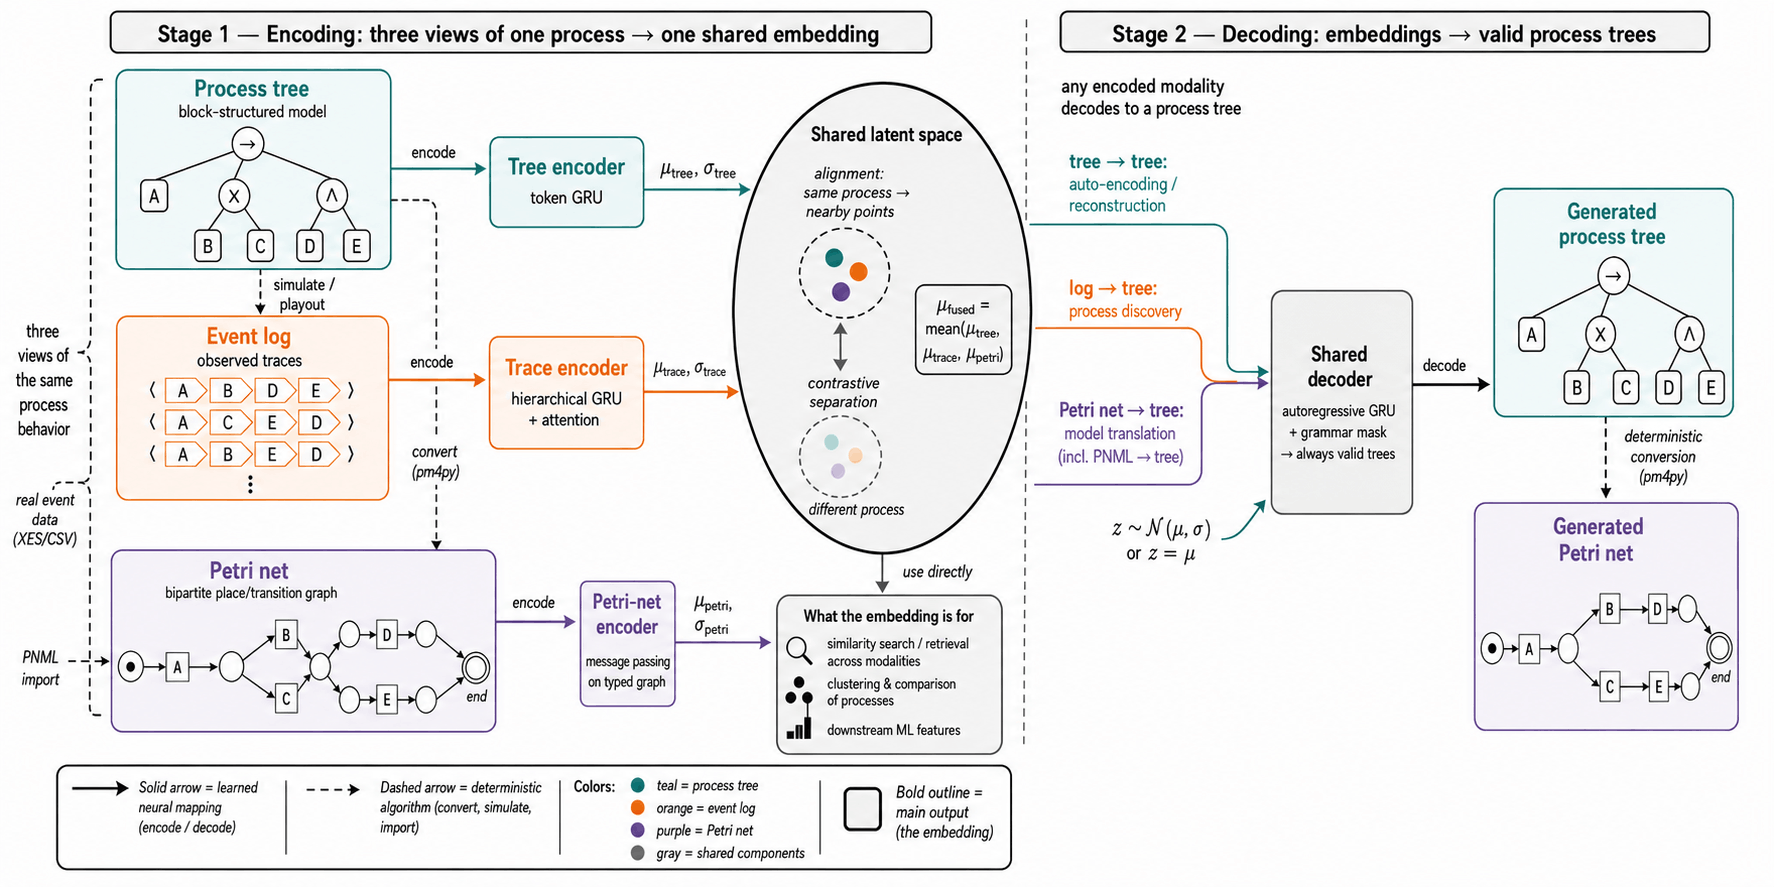
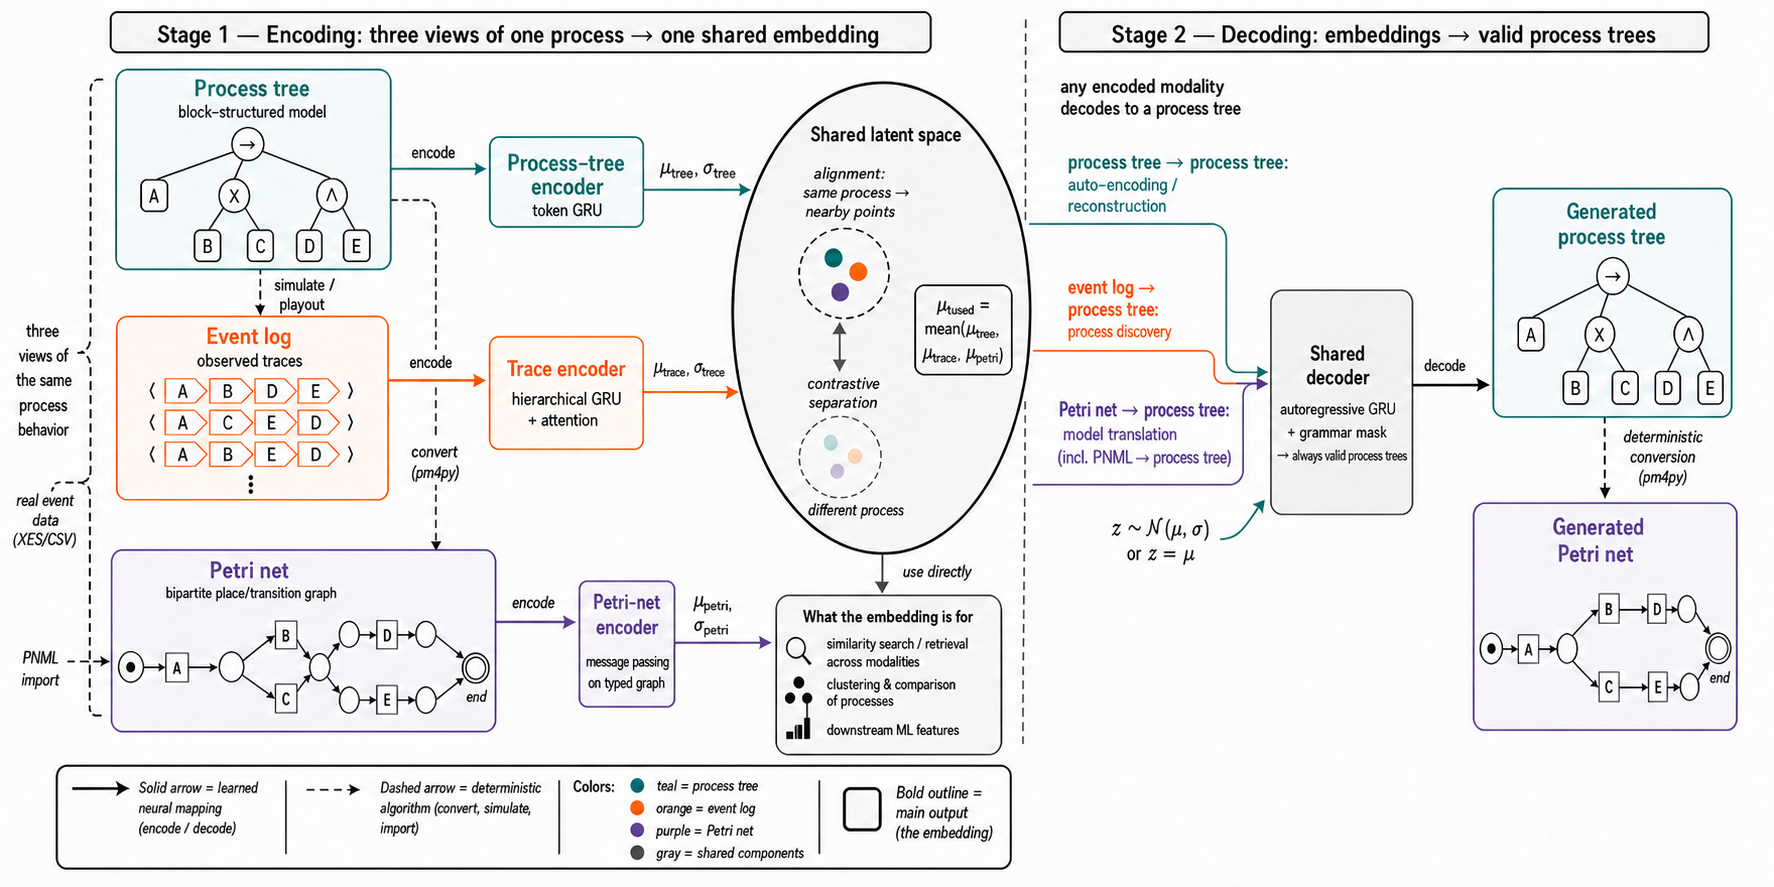
update

diff --git a/paper/main.tex b/paper/main.tex
@@ -613,9 +613,9 @@ The target process trees cover sequence, choice, concurrency, and two-child loop
 \section{Conclusion}
 \label{sec:conclusion}
 
-This paper introduced ProcRosetta, a multimodal neural framework that embeds the three central artifact types of process mining (event logs, process trees, and Petri nets) into a single latent space of process behavior and decodes points of that space into grammar-valid process trees that convert deterministically into sound Petri nets. The assessment answers the three research questions with qualifications: the modality-specific geometries are consistent with their arithmetic-mean fused geometry, and all six exact-row cross-modal retrieval directions perform above chance, although substantial headroom remains (RQ1); at least 99.8\% of decodes terminate for every latent source, every terminated output is grammar-valid and convertible to a Petri net, 75.0\% exactly match the target, and decoded behavior remains substantially closer to the source than unrelated rows (RQ2); under the paired-row test construction, ProcRosetta places behaviorally equivalent companion views in close local neighborhoods, while deterministic event-log features remain stronger in global behavioral rank correlation and learned event-log-to-process-tree translation reaches about 90\% of the Inductive Miner's footprint F1 (RQ3).
+ProcRosetta embeds event logs, process trees, and Petri nets in a shared behavioral latent space and decodes grammar-valid process trees that convert to sound Petri nets. All exact-row retrieval directions exceed chance but leave headroom (RQ1). At least 99.8\% of decodes terminate; every terminated output is valid and convertible, 75.0\% exactly match the target, and decoded behavior remains closer to the source than unrelated rows (RQ2). Under the paired-row construction, equivalent views form local neighborhoods, while deterministic event-log features lead global rank correlation and event-log-to-process-tree translation reaches about 90\% of the Inductive Miner's footprint F1 (RQ3).
 
-Future work should scale data and encoders, add realistic incomplete and noisy event logs, quantify cross-split near-duplicates, validate on real artifacts, strengthen retrieval and decoding, and measure multi-seed robustness. Richer sound targets such as POWL~\cite{Kourani2026}, exact-conformance distances, and further modalities such as natural-language descriptions would move closer to a true Rosetta stone for process representations.
+Future work should test larger encoders, multiple seeds, and realistic event logs; control cross-split near-duplicates; improve retrieval and decoding; and evaluate richer sound targets, exact-conformance distances, and natural-language descriptions.
 
 \section*{Acknowledgements}
 
